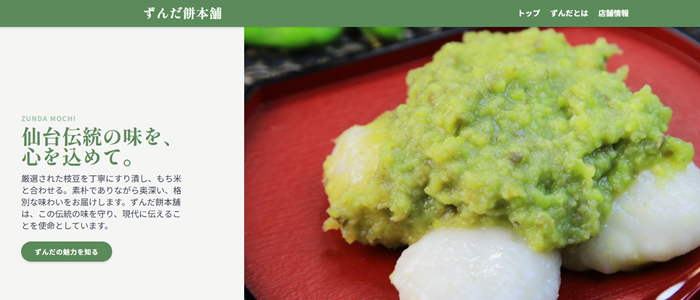
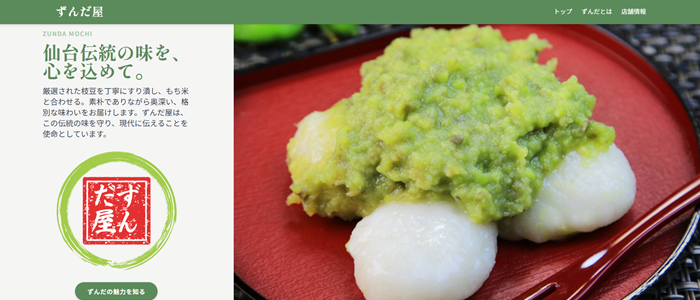
ロゴ追加

diff --git a/src/data/projects.ts b/src/data/projects.ts
@@ -14,7 +14,7 @@ export interface Project {
 
 // プロジェクトデータの配列
 export const projects: Project[] = [
-      {
+  {
     id: "zunda_web",
     title: "【仙台名物】ずんだ餅専門店Webサイト（自主制作）",
     description:
@@ -23,12 +23,13 @@ export const projects: Project[] = [
     technologies: ["HTML", "JavaScript", "CSS", "Tailwind CSS"],
     demoLink: "https://kometoume.github.io/zunda_site/",
     points: [
+      "Illustratorで、ブランドの信念を象徴するハンコ風ロゴを自作し、伝統と信頼感をデザインで表現。",
       "Google Fontsで和風フォントを選定し、商品名や見出しに伝統的な和菓子の雰囲気と高級感を演出。",
       "モバイルフレンドリーなレスポンシブデザインを、Tailwind CSSのユーティリティを活用して実現。",
-      'Tailwindのデフォルトカラーを上書きし、カスタムの「ずんだカラー」を定義・適用することで、ブランド独自の配色を一貫して表現。',
+      "Tailwindのデフォルトカラーを上書きし、カスタムの「ずんだカラー」を定義・適用することで、ブランド独自の配色を一貫して表現。",
     ],
   },
-    {
+  {
     id: "todo-app",
     title: "毎日掃除リスト（自主制作）",
     description:
@@ -45,11 +46,11 @@ export const projects: Project[] = [
     ],
   },
   {
-    id: "eding-website", 
+    id: "eding-website",
     title: "前職の会社のWebサイト",
     description:
       "前職の会社のWebサイトの制作・改修を担当しました。主にHTML, CSS, JavaScript, jQueryを用いてレスポンシブデザインに対応させ、視覚的な魅力を高めるスライダーを導入しました。バックエンドではPHPを使用してセキュアな問い合わせフォームを実装しています。デザイン面ではAdobe PhotoshopとIllustratorを活用し、サイト全体の品質向上に貢献しました。",
-    image: "/images/eding-thumbnail.png", 
+    image: "/images/eding-thumbnail.png",
     technologies: [
       "HTML",
       "CSS",
@@ -59,7 +60,7 @@ export const projects: Project[] = [
       "Adobe Photoshop",
       "Adobe Illustrator",
     ],
-    demoLink: "https://www.eding.co.jp", 
+    demoLink: "https://www.eding.co.jp",
     points: [
       "レスポンシブデザイン対応",
       "問い合わせフォーム作成",
@@ -67,11 +68,11 @@ export const projects: Project[] = [
     ],
   },
   {
-    id: "client-website-scsk-nvidia", 
+    id: "client-website-scsk-nvidia",
     title: "クライアントのWebサイト (スライダー・シミュレーション)",
     description:
       "クライアントのWebサイトです。クライアントの要望に応えつつ、サイトの顔となるスライダーのデザインや、ユーザー体験を向上させる見積もりシミュレーションの設計・実装を担当しました。",
-    image: "/images/project-a-thumbnail.png", 
+    image: "/images/project-a-thumbnail.png",
     technologies: [
       "HTML",
       "CSS",
@@ -80,7 +81,7 @@ export const projects: Project[] = [
       "Adobe Photoshop",
       "Adobe Illustrator",
     ],
-    demoLink: "https://www.scsk.jp/sp/nvidia/index.html", 
+    demoLink: "https://www.scsk.jp/sp/nvidia/index.html",
     points: [
       "レスポンシブデザイン対応",
       "見積もりシミュレーションの作成",
@@ -90,11 +91,11 @@ export const projects: Project[] = [
     ],
   },
   {
-    id: "client-website-scsk-club", 
+    id: "client-website-scsk-club",
     title: "クライアントのWebサイト (スライダー・デザイン調整)",
     description:
       "クライアントのWebサイトにおいて、トップページの印象を左右するスライダーのデザインから画像制作、実装・導入までを一貫して担当しました。また、既存サイトの構成やデザインの調整にも対応し、ユーザー動線の見直しや導線設計の改善を行いました。",
-    image: "/images/project-b-thumbnail.png", 
+    image: "/images/project-b-thumbnail.png",
     technologies: [
       "HTML",
       "CSS",
@@ -103,15 +104,15 @@ export const projects: Project[] = [
       "Adobe Photoshop",
       "Adobe Illustrator",
     ],
-    demoLink: "https://www.scsk.jp/sp/clubscsk/", 
+    demoLink: "https://www.scsk.jp/sp/clubscsk/",
     points: ["レスポンシブデザイン対応", "スライダー導入", "図版作成"],
   },
   {
-    id: "client-website-scsk-ixia", 
+    id: "client-website-scsk-ixia",
     title: "クライアントのWebサイト (リニューアル)",
     description:
       "クライアントのWebサイトにおいて、サイト全体のデザインを一新するリニューアルプロジェクトに携わり、画像制作、実装・導入までを一貫して担当しました。加えて、サイト全体の構成やデザインの見直しを行い、ユーザー動線を最適化しました。",
-    image: "/images/project-c-thumbnail.png", 
+    image: "/images/project-c-thumbnail.png",
     technologies: [
       "HTML",
       "CSS",
@@ -120,15 +121,15 @@ export const projects: Project[] = [
       "Adobe Photoshop",
       "Adobe Illustrator",
     ],
-    demoLink: "https://www.scsk.jp/sp/ixia/", 
+    demoLink: "https://www.scsk.jp/sp/ixia/",
     points: ["レスポンシブデザイン対応", "図版作成"],
   },
   {
-    id: "client-website-scsk-pureflow", 
+    id: "client-website-scsk-pureflow",
     title: "クライアントのWebサイト (構成・デザイン修正)",
     description:
       "クライアントの要望に応じて、サイト全体の構成やデザインの細部を適宜修正し、図版の作成や既存素材の調整なども行いました。視認性や操作性を意識した改善を重ねることで、ユーザー体験の向上に貢献しています。",
-    image: "/images/project-d-thumbnail.png", 
+    image: "/images/project-d-thumbnail.png",
     technologies: [
       "HTML",
       "CSS",
@@ -137,11 +138,7 @@ export const projects: Project[] = [
       "Adobe Photoshop",
       "Adobe Illustrator",
     ],
-    demoLink: "https://www.scsk.jp/sp/pureflow/index.html", 
+    demoLink: "https://www.scsk.jp/sp/pureflow/index.html",
     points: ["レスポンシブデザイン対応", "図版作成"],
   },
-
-
-
-
 ];
